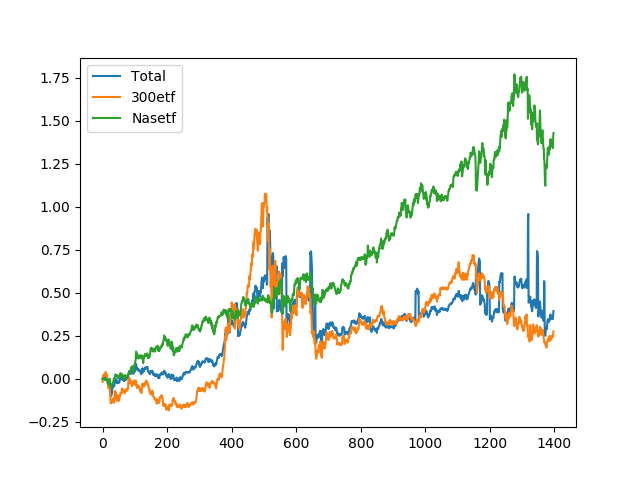
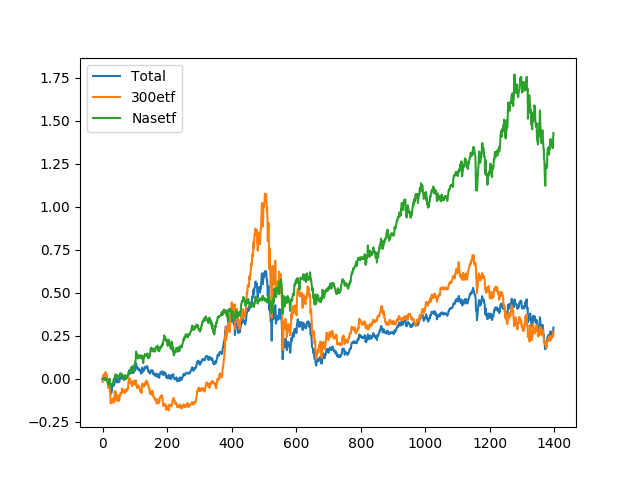
暂时停止蒙特卡洛分支

diff --git a/MonteCarlo.py b/MonteCarlo.py
@@ -205,7 +205,6 @@ def work(cost_pertime, time, freq, df_300, df_nas, bCut, up, sell_rate):
             #先计算能投入的金额
             #如果进行过止盈止损，把卖出得到的钱加上
                 money300 = money_300 + money_300_rem
-            
                 if bUp300 == True and rate300[i-1] - minRate300 > stop*up:
                     money300 += money_cut_300
                     money_cut_300 = 0.0
@@ -227,6 +226,7 @@ def work(cost_pertime, time, freq, df_300, df_nas, bCut, up, sell_rate):
                 cost[i] += cost300[i]
                 fee[i] += fee_300
                 money_300_rem = money300 - cost_300 - fee_300
+                #print(i, money_300_rem)
             else: #正在止盈过程中
                 stack300.append(stack300[i-1])
                 cost300.append(cost300[i-1])
@@ -263,6 +263,7 @@ def work(cost_pertime, time, freq, df_300, df_nas, bCut, up, sell_rate):
             costNas.append(costNas[i-1])
             cost[i] = cost[i-1]
             fee[i] = fee[i-1]
+            #print(i, stack300[i], cost300[i])
         j += 1
         if j == freq:
             j = 0
@@ -280,7 +281,7 @@ def work(cost_pertime, time, freq, df_300, df_nas, bCut, up, sell_rate):
         rateNas.append(incomeNas[i]/costNas[i])
         rate.append(income[i]/cost[i])
         
-        #print(i, cost300[i], value300[i], rate300[i], costNas[i], valueNas[i], rateNas[i])
+        #print(i, cost300[i], value300[i], rate300[i])
         
         #进行止盈止损操作
         if bUp300 == False: 
@@ -316,22 +317,24 @@ def work(cost_pertime, time, freq, df_300, df_nas, bCut, up, sell_rate):
                     Cut300 = Cut(stack300[i], df_300["close"][i], fee_rate, sell_rate)
                     stack300[i] -= Cut300[0]
                     value300[i] -= Cut300[1] + Cut300[2]
-                    cost300[i] -= Cut300[1] + Cut300[2]
-                    rate300[i] = (value300[i] - cost300[i])/cost300[i]
-                    money_cut_300 += Cut300[1] + Cut300[2]
+                    #print(i, cost300[i], money_cut_300, Cut300)
+                    cost300[i] += Cut300[2]
+                    money_cut_300 += Cut300[1] - Cut300[2]
+                    rate300[i] = (value300[i] - cost300[i] + money_cut_300)/cost300[i]
                     fee[i] += Cut300[2]
                     bUp300 = True
                     maxRate300 -= up
-                    #print(i, "300")
+                    #print(i, cost300[i], money_cut_300, Cut300)
+                    print(i, value300[i], cost300[i], rate300[i])
                         
                 if bCutUpNas == True:
                     #纳指etf
                     CutNas = Cut(stackNas[i], df_nas["close"][i], fee_rate, sell_rate)
                     stackNas[i] -= CutNas[0]
                     valueNas[i] -= CutNas[1] + CutNas[2]
-                    costNas[i] -= CutNas[1] + CutNas[2]
-                    rateNas[i] = (valueNas[i] - costNas[i])/costNas[i]
-                    money_cut_nas += CutNas[1] + CutNas[2]
+                    costNas[i] += CutNas[2]
+                    money_cut_nas += CutNas[1] - CutNas[2]
+                    rateNas[i] = (valueNas[i] - costNas[i] - money_cut_nas)/costNas[i]
                     bUpNas = True
                     maxRateNas -= up
                     fee[i] += CutNas[2]
@@ -413,6 +416,7 @@ def Cut(stack, price, fee_rate, sell_rate):
     if sellNumber < 100:
         sellNumber = 0
     sellMoney = TradeCost(sellNumber, price)
+    #print(stack, sellNumber, price, sellMoney)
     sellFee = TradeFee(sellMoney, fee_rate)
     return (sellNumber, sellMoney, sellFee)
     
@@ -511,7 +515,7 @@ if __name__=="__main__":
     #试试用实盘的策略的模拟结果
     freq = 10
     times = len(df_300)
-    data = work(1000, times, freq, df_300, df_nas, True, 0.15, 0.5)
+    data = work(1000, times, freq, df_300, df_nas, False, 0.15, 0.5)
     #计算指标
     #先处理基准指标，剔除没交易的日期的数据
     #df_300 = df_300[df_300["date"].isin(data.日期.values)]

diff --git a/testBacktrader.py b/testBacktrader.py
@@ -1,0 +1,8 @@
+import backtrader as bt
+
+if __name__ == "__main__":
+    cerebro = bt.Cerebro()
+    print(cerebro.broker.getvalue())
+    cerebro.run()
+    print(cerebro.broker.getvalue())
+    
